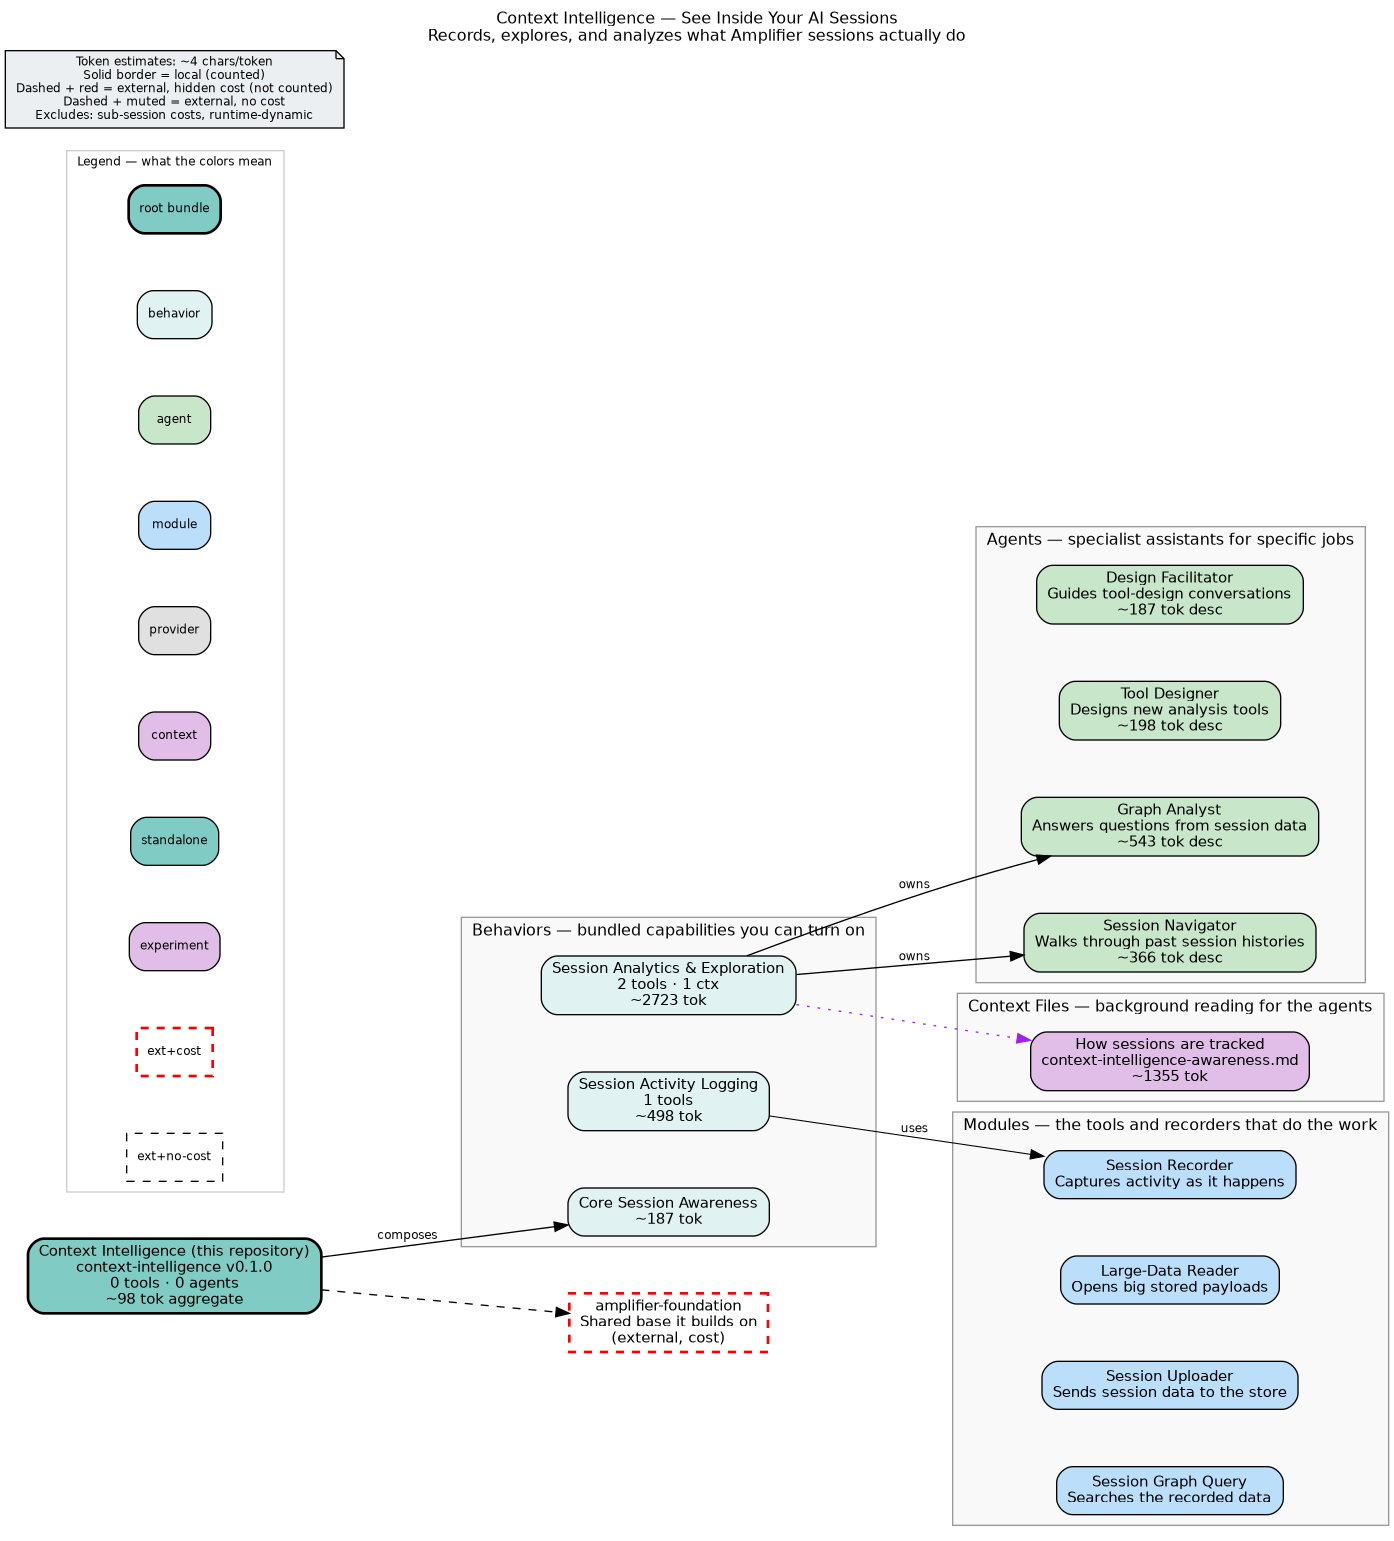
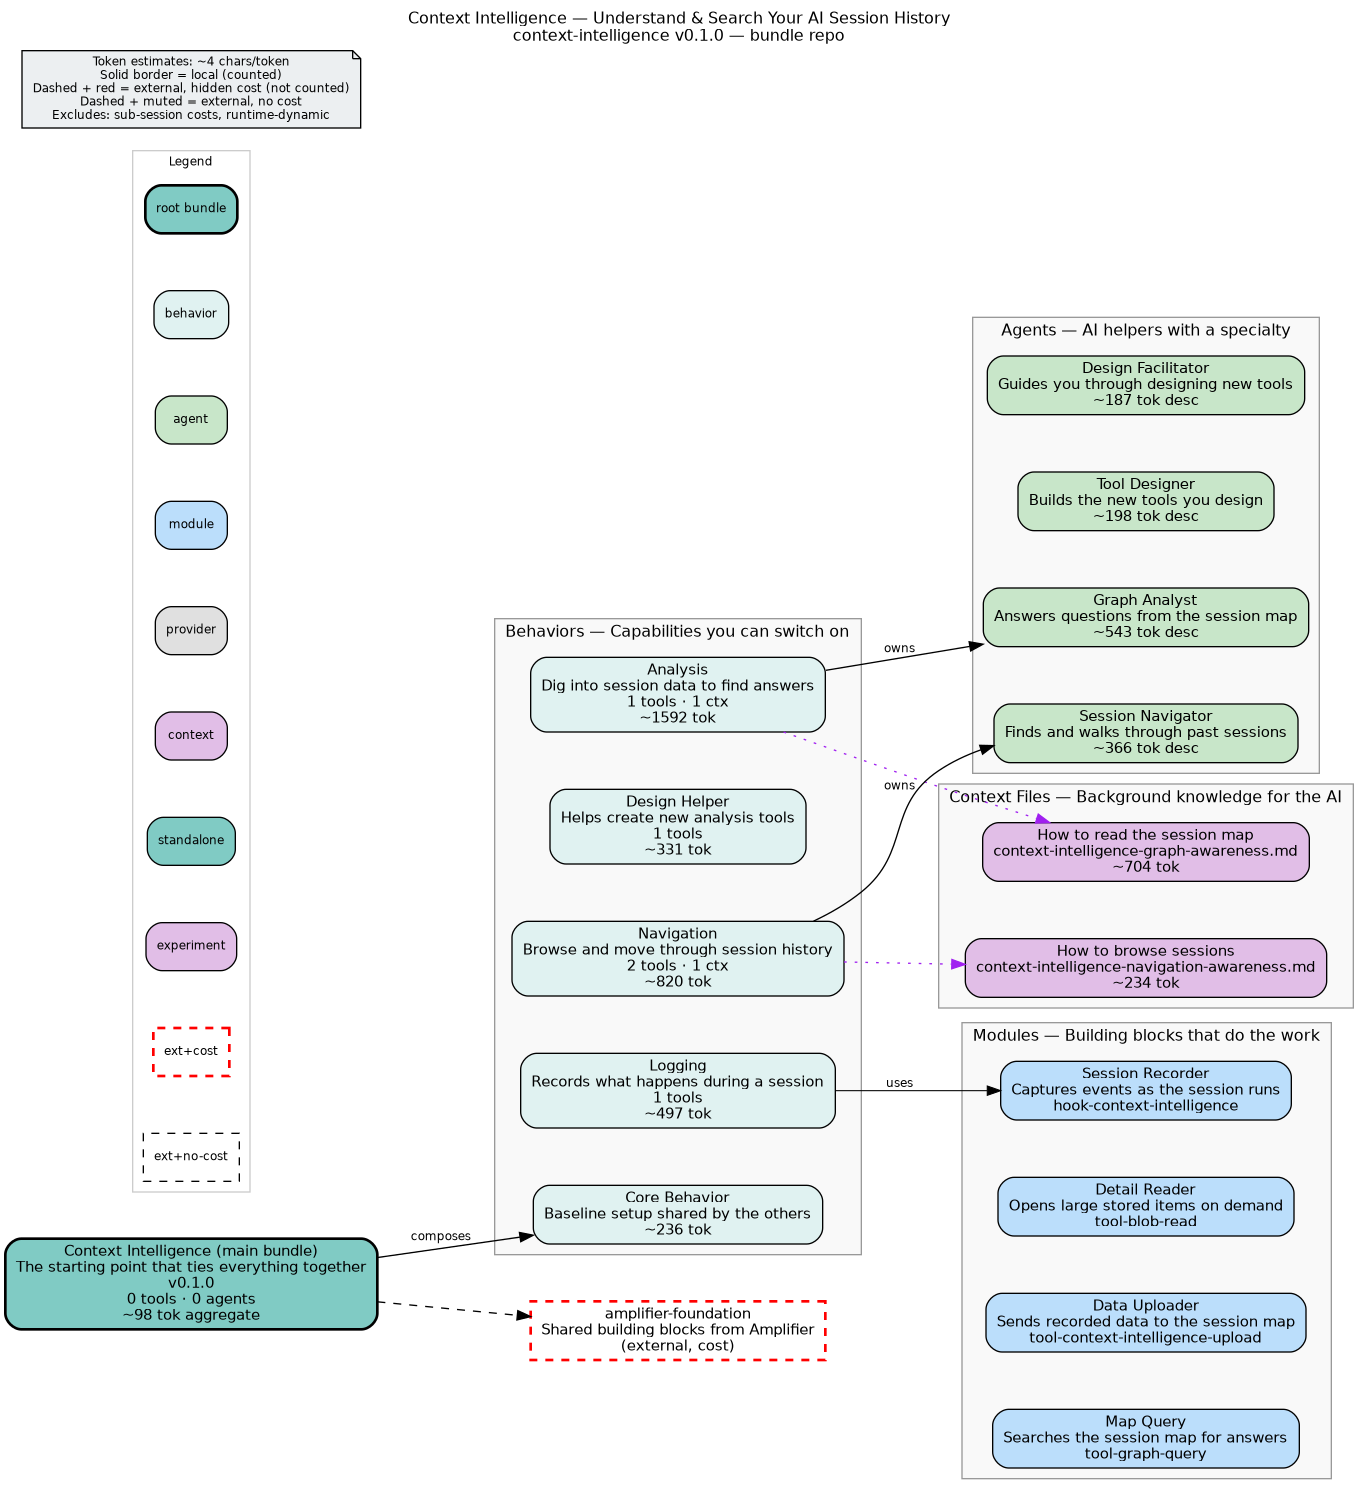
refactor(behaviors): remove deprecated context-intelligence-analytics alias
Removed the deprecated `context-intelligence-analytics` behavior alias which was a thin
backward-compat redirect to `context-intelligence-design`. This alias is no longer needed.

Changes:
- Deleted `behaviors/context-intelligence-analytics.yaml`
- Updated docs and descriptions to remove alias references
- Updated bundle unit tests to remove alias-existence assertions
- Repointed DTU profile to install `context-intelligence-design` directly
- Regenerated bundle documentation (bundle.dot / bundle.png)

Validation: unit tests (21 passed), DTU behavioral profiles (all green)

Generated with [Amplifier](https://github.com/microsoft/amplifier)

diff --git a/modules/hook-context-intelligence/tests/test_bundle.py b/modules/hook-context-intelligence/tests/test_bundle.py
@@ -189,7 +189,6 @@ class TestLayeredBehaviors:
             "context-intelligence-design",
             "context-intelligence-logging",
             "context-intelligence",
-            "context-intelligence-analytics",
         ):
             assert (REPO_ROOT / "behaviors" / f"{name}.yaml").is_file(), f"missing {name}.yaml"
 
@@ -237,11 +236,4 @@ class TestLayeredBehaviors:
         search_paths = mode_hook.get("config", {}).get("search_paths", [])
         assert any("@context-intelligence:modes" in p for p in search_paths), (
             f"hooks-mode must point at the CI modes dir, got search_paths: {search_paths!r}"
-        )
-
-    def test_analytics_is_deprecated_redirect_to_design(self):
-        data = _load_named_behavior("context-intelligence-analytics")
-        refs = _bundle_refs(data)
-        assert any("context-intelligence-design" in r for r in refs), (
-            f"analytics (deprecated alias) must redirect to design, got: {refs!r}"
         )

diff --git a/AGENTS.md b/AGENTS.md
@@ -12,7 +12,6 @@ Composable behaviors for session observability + context intelligence, organized
   (registered via `hooks-mode` `search_paths: ["@context-intelligence:modes"]`; mode is `advertised: false`, activated on demand).
 - **`context-intelligence-logging`** — independent; the `hook-context-intelligence` telemetry hook only.
 - **`context-intelligence`** (full umbrella) — composes `design` + `logging`.
-- **`context-intelligence-analytics`** — deprecated alias → redirects to `context-intelligence-design`.
 
 Ships as a bundle with behaviors in `behaviors/`.
 
@@ -22,7 +21,7 @@ Ships as a bundle with behaviors in `behaviors/`.
 
 | Path | Contents |
 |------|----------|
-| `behaviors/` | Layered behavior YAMLs: `-navigation` → `-analysis` → `-design` (nested onion) + independent `-logging` + the full `context-intelligence` umbrella, plus the deprecated `-analytics` alias |
+| `behaviors/` | Layered behavior YAMLs: `-navigation` → `-analysis` → `-design` (nested onion) + independent `-logging` + the full `context-intelligence` umbrella |
 | `modules/tool-graph-query/` | Graph query tool + `SkillFetcher` + `skill_sync` (`on_session_ready`) — owns dynamic skill-content sync from the server |
 | `modules/tool-blob-read/` | `blob_read` tool for resolving `ci-blob://` URIs |
 | `modules/hook-context-intelligence/` | Telemetry hook (logging behavior) — **pure telemetry**, no skill sync code |

diff --git a/README.md b/README.md
@@ -42,8 +42,6 @@ context-intelligence                         ← FULL umbrella: design + logging
 | **`context-intelligence`** (full) | composes **design + logging** | both | Telemetry **and** full analysis/design in one install. |
 
 > The design mode ships `advertised: false` — it never clutters `/modes`; users activate it explicitly with `/mode context-intelligence` when they want the design workspace.
->
-> `context-intelligence-analytics` is retained as a **deprecated alias** that redirects to `context-intelligence-design`, so existing installs keep working.
 
 ---
 
@@ -133,8 +131,6 @@ Every Amplifier session will now write events to local JSONL files automatically
 > tool-skills config merges additively, so each layer contributes exactly its own skills.
 
 **`--app` vs standalone:** `--app` composes the behavior onto every session regardless of which primary bundle is active — it never becomes the primary bundle. The standalone form (`bundle add` + `bundle use`) makes context-intelligence the primary bundle for explicitly selected sessions.
-
-> **Migrating from `context-intelligence-analytics`?** It still works — it is now a deprecated alias that redirects to `context-intelligence-design`. Switch to `context-intelligence-design` (same capabilities) or drop down to `context-intelligence-analysis` if you don't need the design mode.
 
 ### 2. (Optional) Enable server forwarding
 

diff --git a/context/context-intelligence-awareness.md b/context/context-intelligence-awareness.md
@@ -22,17 +22,19 @@ analysis agents/tools (consumer) are independently composable.
   ```
   where `BASE_PATH` defaults to `~/.amplifier/projects`.
 
-**Analytics-only** (`context-intelligence-analytics` behavior):
+**Read/query-only** (`context-intelligence-design` behavior):
 - Agents, tools, skills, and design mode — **no event capture hook**.
 - Use when composing into apps that need session navigation/query/exploration
   without instrumenting the session itself.
 - `graph_query` and `blob_read` read from `AMPLIFIER_CONTEXT_INTELLIGENCE_SERVER_URL`
   (env var or `~/.amplifier/settings.yaml`) — no hook required.
+- Step down to `context-intelligence-analysis` (no design mode) or
+  `context-intelligence-navigation` (local JSONL only) for a narrower surface.
 
 **Full** (`context-intelligence` behavior):
-- Composes **both** the analytics and logging behaviors — read/query capabilities
+- Composes **both** the design and logging behaviors — read/query capabilities
   AND the `hook-context-intelligence` event-capture module in one drop-in.
-- Equivalent to composing `context-intelligence-analytics` + `context-intelligence-logging`.
+- Equivalent to composing `context-intelligence-design` + `context-intelligence-logging`.
 
 ## Capabilities
 
